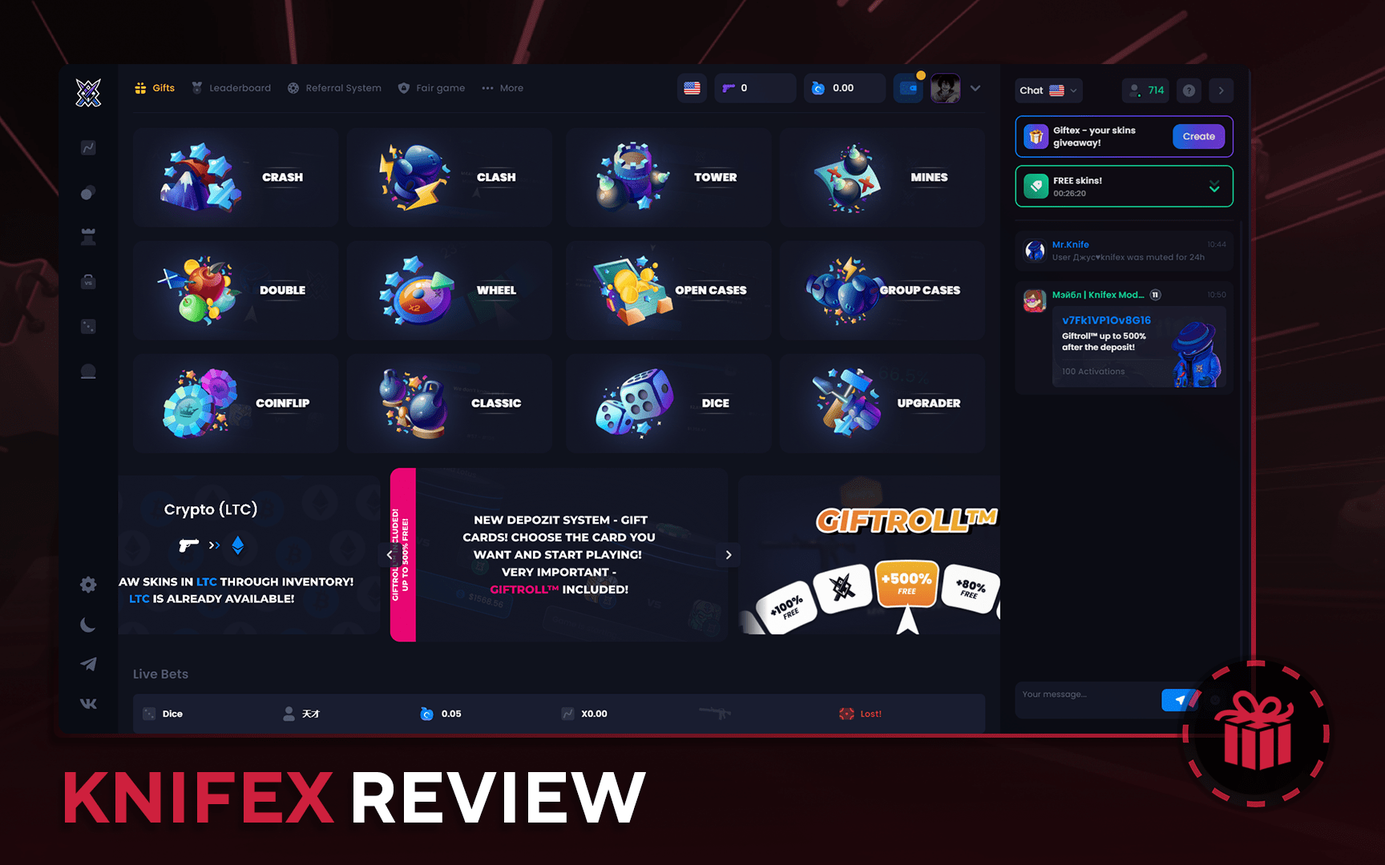
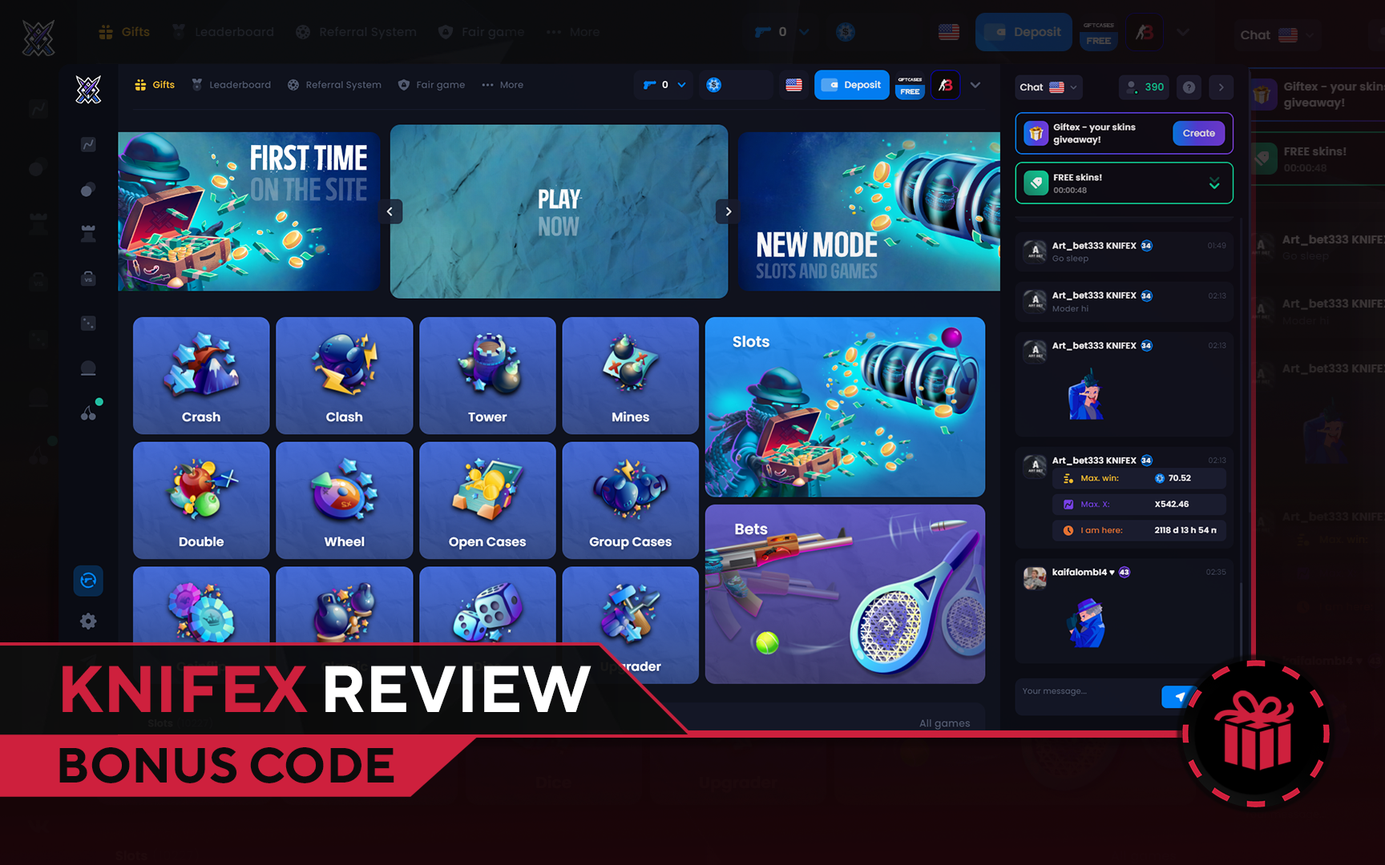
+casino +matchbetting to Knifex, upd rustmoment-ru

diff --git a/ru/reviews/rustmoment.html b/ru/reviews/rustmoment.html
@@ -159,10 +159,10 @@
             </div>
             <div class="smallreview" id="Review_1">
                 <h2>Обзор RUSTMOMENT</h2>
-                <p>В этом обзоре мы рассмотрим RustMoment, сайт азартных игр, посвященный скинам Rust. Мы изучим его особенности, репутацию, пользовательский опыт и возможные опасения относительно его законности.</p>
-                <p>RustMoment открылся в конце 2021 года, но вскоре после этого находился вне сети в течение долгого периода технического обслуживания продолжительностью более шести месяцев. В 2023 году сайт вновь появился с обновленным внешним видом и улучшенными анимациями игр. В настоящее время RustMoment предлагает шесть игр, включая уникальную "X-Roulette", которая сочетает элементы краша и рулетки, а также пять других оригинальных игр. Одной из заметных особенностей RustMoment является система вознаграждений за комиссии, предоставляющая игрокам ежедневные, еженедельные и ежемесячные бонусы. Этот стимул добавляет ценности игровому опыту и поощряет лояльность игроков. Кроме того, RustMoment принимает стандартные способы оплаты, а также криптовалюты, обеспечивая пользователям гибкость и удобство в их транзакциях.</p>
-                <p>Регулярные обновления сайта свидетельствуют о стремлении улучшить платформу и обеспечить плавный пользовательский опыт. RustMoment работает на структуре с шифрованием SSL, обеспечивающей защиту связи между пользователями и сервером, что является важным для защиты конфиденциальных данных и обеспечения конфиденциальности пользователей. Однако важно отметить, что RustMoment в прошлом испытывал длительные периоды технического обслуживания, что вызывает вопросы о его надежности и законности в целом. В настоящее время платформа выглядит репутабельной и не связана с серьезными случаями нарушения безопасности или мошенничества, однако пользователи должны быть осторожны и проводить собственное исследование перед участием в азартных играх в Интернете.</p>
-                <p>RustMoment предлагает многообещающий игровой опыт для любителей скинов Rust. Со своим разнообразием игр, регулярными бонусами и обязательством по обеспечению безопасности, сайт демонстрирует потенциал как законная платформа. Однако из-за его относительно недавнего появления и проблем с техническим обслуживанием в прошлом, пользователи должны подходить к RustMoment с осторожностью и принимать обоснованные решения при использовании сайта. Проведение тщательного исследования и осмотрительности являются неотъемлемыми при осуществлении азартных игр в Интернете.</p>
+                <p>RustMoment - это платформа для азартных игр с использованием скинов Rust, которая была запущена в конце 2022 года. Однако вскоре после открытия сайт был закрыт на длительное техническое обслуживание, продолжавшееся более шести месяцев. В 2023 году RustMoment вернулся с обновленным дизайном и расширенным функционалом.</p>
+                <p>На данный момент RustMoment предлагает шесть игровых режимов, включая уникальные «X-Games», что придает сайту индивидуальности. Одной из ключевых особенностей платформы является система рейкбека, которая позволяет игрокам получать ежедневные, еженедельные и ежемесячные бонусы.</p>
+                <p>Платформа принимает депозиты в виде скинов Rust и криптовалюты, однако вывод средств возможен только в виде скинов Rust. Это может ограничить пользователей, привыкших к большему выбору методов вывода. Регулярные обновления сайта свидетельствуют о том, что команда RustMoment стремится улучшать платформу и обеспечивать качественный пользовательский опыт.</p>
+                <p>В целом, RustMoment предлагает многообещающий игровой опыт для любителей азартных игр с использованием скинов Rust. С разнообразием игр и системой бонусов, платформа демонстрирует потенциал стать надежным и популярным выбором среди игроков. Тем не менее, из-за недавней истории сайта важно сохранять бдительность и принимать обоснованные решения при игре на RustMoment.</p>
                 <div class="title-space"></div>
             </div>
                         <div class="instruction" id="Bonus_2">
@@ -257,12 +257,12 @@
                     <span>Способы Пополнения<i class="bi bi-caret-down-fill"></i></span>
                     <div class="methodlist" id="first">
                         <a href="/ru/rust" aria-label="Rust Items" class="rust"></a>
-                        <a href="/ru/crypto" aria-label="Bitcoin" class="btc"></a>
-                        <a href="/ru/crypto" aria-label="Ethereum" class="eth"></a>
-                        <a href="/ru/crypto" aria-label="Litecoin" class="ltc"></a>
-                        <a href="/ru" aria-label="VISA" class="visa"></a>
-                        <a href="/ru" aria-label="MasterCard" class="mastercard"></a>
-                        <a href="/ru" aria-label="UnionPay" class="unionpay"></a>
+                        <a href="/crypto" aria-label="USDT" class="usdt"></a>
+                        <a href="/crypto" aria-label="Bitcoin" class="btc"></a>
+                        <a href="/crypto" aria-label="Ethereum" class="eth"></a>
+                        <a href="/crypto" aria-label="Litecoin" class="ltc"></a>
+                        <a href="/crypto" aria-label="USDC" class="usdc"></a>
+                        <a href="/crypto" aria-label="Ripple" class="ripple"></a>
                     </div>
                 </div>
                 <div class="sitepros">

diff --git a/ru/reviews/knifex.html b/ru/reviews/knifex.html
@@ -178,26 +178,30 @@
                 <div class="gamemodes">
                     <div class="featuresbox">
                         <div class="typesinside">
-                            <a href="/ru/csgo/roulette" aria-label="Roulette" class="roulette"></a>
-                            <a href="/ru/csgo/crash" aria-label="Crash" class="crash"></a>
-                            <a href="/ru/csgo/roulette" aria-label="Wheel of Fortune" class="wheel"></a>
-                            <a href="/ru/csgo/coinflip" aria-label="Coinflip" class="coinflip"></a>
-                            <a href="/ru/csgo/case-battle" aria-label="Case Battles" class="casebattles"></a>
-                            <a href="/ru/csgo/jackpot" aria-label="Jackpot" class="jackpot"></a>
+                            <a href="/csgo/matchbetting" aria-label="Esports Betting" class="cs2"></a>
+                            <a href="/csgo/casino" aria-label="Slots" class="slots"></a>
+                            <a href="/csgo/matchbetting" aria-label="Sport Betting" class="sport"></a>
+                            <a href="/csgo/roulette" aria-label="Roulette" class="roulette"></a>
+                            <a href="/csgo/crash" aria-label="Crash" class="crash"></a>
+                            <a href="/csgo/roulette" aria-label="Wheel of Fortune" class="wheel"></a>
+                            <a href="/csgo/coinflip" aria-label="Coinflip" class="coinflip"></a>
+                            <a href="/csgo/case-battle" aria-label="Case Battles" class="casebattles"></a>
+                            <a href="/csgo/jackpot" aria-label="Jackpot" class="jackpot"></a>
                             <a href="/csgo/mines" aria-label="Mines" class="mines"></a>
-                            <a href="/ru/csgo/dice" aria-label="Dice" class="dice"></a>
+                            <a href="/csgo/dice" aria-label="Dice" class="dice"></a>
                             <a href="" aria-label="Towers" class="towers"></a>
-                            <a href="/ru/csgo/caseopening" aria-label="Case Opening" class="cases"></a>
-                            <a href="/ru/csgo/upgrader" aria-label="Upgrader" class="upgrader"></a>
+                            <a href="/csgo/caseopening" aria-label="Case Opening" class="cases"></a>
+                            <a href="/csgo/upgrader" aria-label="Upgrader" class="upgrader"></a>
                         </div>
                     </div>
                 </div>
                 <div class="screens">
-                    <div class="slide bg1"><img draggable="false" loading="lazy" src="/img/screens/knifex_1.png" alt="KNIFEX ScreenShot 1"></div>
-                    <div class="slide bg2"><img draggable="false" loading="lazy" src="/img/screens/knifex_2.png" alt="KNIFEX ScreenShot 2"></div>
-                    <div class="slide bg3"><img draggable="false" loading="lazy" src="/img/screens/knifex_3.png" alt="KNIFEX ScreenShot 3"></div>
-                    <div class="slide bg4"><img draggable="false" loading="lazy" src="/img/screens/knifex_4.png" alt="KNIFEX ScreenShot 4"></div>
-                    <div class="slide bg5"><img draggable="false" loading="lazy" src="/img/screens/knifex_5.png" alt="KNIFEX ScreenShot 5"></div>
+                    <div class="slide bg1"><img draggable="false" loading="lazy" src="/img/screens/knifex_1.jpg" alt="KNIFEX Main Page ScreenShot"></div>
+                    <div class="slide bg2"><img draggable="false" loading="lazy" src="/img/screens/knifex_2.jpg" alt="KNIFEX Mines mode ScreenShot"></div>
+                    <div class="slide bg3"><img draggable="false" loading="lazy" src="/img/screens/knifex_3.jpg" alt="KNIFEX Case Opening ScreenShot"></div>
+                    <div class="slide bg4"><img draggable="false" loading="lazy" src="/img/screens/knifex_4.jpg" alt="KNIFEX Betting Selection ScreenShot"></div>
+                    <div class="slide bg5"><img draggable="false" loading="lazy" src="/img/screens/knifex_5.jpg" alt="KNIFEX Slots Selection ScreenShot"></div>
+                    <div class="slide bg5"><img draggable="false" loading="lazy" src="/img/screens/knifex_6.jpg" alt="KNIFEX Crash mode ScreenShot"></div>
                 </div>
             </div>
             <div class="sitealternates">

diff --git a/csgo/casino.html b/csgo/casino.html
@@ -308,6 +308,20 @@
                 <button class="copy" aria-label="Copy Code" onclick="copyToClipboard('#p9')"><i class="bi bi-copy"></i></button>
             </div>
         </div>
+        <div class="box" id="CSGOLuck">
+            <div class="logobg">
+                <a href="/reviews/csgoluck"><img src="/img/csgoluck-logo.webp" alt="CSGOLuck logo" draggable="false" loading="lazy"></a>
+                <div class="best">5 Free Cases</div>
+            </div>
+            <div class="content">
+                <p>CSGOLuck</p>
+                <p>CSGOLuck is a licensed CSGO skin gambling site that accepts multiple deposit methods, offering various games and a user-friendly design.</p>
+                <p>Withdraw CS2 Skins or Crypto!</p>
+                <a aria-label="Visit WebSite" class="copy_style" target="_blank" href='https://csgoluck.com/r/CSGOBROKER'>Code: CSGOBROKER</a>
+                <span id="p4">CSGOBROKER</span>
+                <button class="copy" aria-label="Copy Code" onclick="copyToClipboard('#p4')"><i class="bi bi-copy"></i></button>
+            </div>
+        </div>
         <div class="box" id="Rollbit">
             <div class="logobg">
                 <a href="/reviews/rollbit"><img src="/img/rollbit-logo.webp" loading="lazy" draggable="false" alt="Rollbit logo"></a>
@@ -335,18 +349,18 @@
                 <button class="copy" aria-label="Copy Code" onclick="copyToClipboard('#polygoncopy')"><i class="bi bi-copy"></i></button>
             </div>
         </div>
-        <div class="box" id="CSGOLuck">
+        <div class="box" id="KNIFEX">
             <div class="logobg">
-                <a href="/reviews/csgoluck"><img src="/img/csgoluck-logo.webp" alt="CSGOLuck logo" draggable="false" loading="lazy"></a>
+                <a href="/reviews/knifex"><img src="/img/knifex-logo.webp" loading="lazy" draggable="false" alt="KNIFEX logo"></a>
                 <div class="best">5 Free Cases</div>
             </div>
             <div class="content">
-                <p>CSGOLuck</p>
-                <p>CSGOLuck is a licensed CSGO skin gambling site that accepts multiple deposit methods, offering various games and a user-friendly design.</p>
-                <p>Withdraw CS2 Skins or Crypto!</p>
-                <a aria-label="Visit WebSite" class="copy_style" target="_blank" href='https://csgoluck.com/r/CSGOBROKER'>Code: CSGOBROKER</a>
-                <span id="p4">CSGOBROKER</span>
-                <button class="copy" aria-label="Copy Code" onclick="copyToClipboard('#p4')"><i class="bi bi-copy"></i></button>
+                <p>KNIFEX</p>
+                <p>KNIFEX is a CS2 gambling site that offers a range of game modes, including case opening, case battles, coinflip, crash, clash and many more!</p>
+                <p>Withdraw CS2 Skins and Items!</p>
+                <a aria-label="Visit WebSite" class="copy_style" target="_blank" href='https://knifex.bet/ref/broker'>Code: broker</a>
+                <span id="p23">broker</span>
+                <button class="copy" aria-label="Copy Code" onclick="copyToClipboard('#p23')"><i class="bi bi-copy"></i></button>
             </div>
         </div>
     </div>

diff --git a/reviews/knifex.html b/reviews/knifex.html
@@ -179,6 +179,9 @@
                 <div class="gamemodes">
                     <div class="featuresbox">
                         <div class="typesinside">
+                            <a href="/csgo/matchbetting" aria-label="Esports Betting" class="cs2"></a>
+                            <a href="/csgo/casino" aria-label="Slots" class="slots"></a>
+                            <a href="/csgo/matchbetting" aria-label="Sport Betting" class="sport"></a>
                             <a href="/csgo/roulette" aria-label="Roulette" class="roulette"></a>
                             <a href="/csgo/crash" aria-label="Crash" class="crash"></a>
                             <a href="/csgo/roulette" aria-label="Wheel of Fortune" class="wheel"></a>
@@ -194,11 +197,12 @@
                     </div>
                 </div>
                 <div class="screens">
-                    <div class="slide bg1"><img draggable="false" loading="lazy" src="/img/screens/knifex_1.png" alt="KNIFEX ScreenShot 1"></div>
-                    <div class="slide bg2"><img draggable="false" loading="lazy" src="/img/screens/knifex_2.png" alt="KNIFEX ScreenShot 2"></div>
-                    <div class="slide bg3"><img draggable="false" loading="lazy" src="/img/screens/knifex_3.png" alt="KNIFEX ScreenShot 3"></div>
-                    <div class="slide bg4"><img draggable="false" loading="lazy" src="/img/screens/knifex_4.png" alt="KNIFEX ScreenShot 4"></div>
-                    <div class="slide bg5"><img draggable="false" loading="lazy" src="/img/screens/knifex_5.png" alt="KNIFEX ScreenShot 5"></div>
+                    <div class="slide bg1"><img draggable="false" loading="lazy" src="/img/screens/knifex_1.jpg" alt="KNIFEX Main Page ScreenShot"></div>
+                    <div class="slide bg2"><img draggable="false" loading="lazy" src="/img/screens/knifex_2.jpg" alt="KNIFEX Mines mode ScreenShot"></div>
+                    <div class="slide bg3"><img draggable="false" loading="lazy" src="/img/screens/knifex_3.jpg" alt="KNIFEX Case Opening ScreenShot"></div>
+                    <div class="slide bg4"><img draggable="false" loading="lazy" src="/img/screens/knifex_4.jpg" alt="KNIFEX Betting Selection ScreenShot"></div>
+                    <div class="slide bg5"><img draggable="false" loading="lazy" src="/img/screens/knifex_5.jpg" alt="KNIFEX Slots Selection ScreenShot"></div>
+                    <div class="slide bg5"><img draggable="false" loading="lazy" src="/img/screens/knifex_6.jpg" alt="KNIFEX Crash mode ScreenShot"></div>
                 </div>
             </div>
             <div class="sitealternates">

diff --git a/tr/reviews/knifex.html b/tr/reviews/knifex.html
@@ -179,6 +179,9 @@
                 <div class="gamemodes">
                     <div class="featuresbox">
                         <div class="typesinside">
+                            <a href="/csgo/matchbetting" aria-label="Esports Betting" class="cs2"></a>
+                            <a href="/csgo/casino" aria-label="Slots" class="slots"></a>
+                            <a href="/csgo/matchbetting" aria-label="Sport Betting" class="sport"></a>
                             <a href="/csgo/roulette" aria-label="Roulette" class="roulette"></a>
                             <a href="/csgo/crash" aria-label="Crash" class="crash"></a>
                             <a href="/csgo/roulette" aria-label="Wheel of Fortune" class="wheel"></a>
@@ -194,11 +197,12 @@
                     </div>
                 </div>
                 <div class="screens">
-                    <div class="slide bg1"><img draggable="false" loading="lazy" src="/img/screens/knifex_1.png" alt="KNIFEX ScreenShot 1"></div>
-                    <div class="slide bg2"><img draggable="false" loading="lazy" src="/img/screens/knifex_2.png" alt="KNIFEX ScreenShot 2"></div>
-                    <div class="slide bg3"><img draggable="false" loading="lazy" src="/img/screens/knifex_3.png" alt="KNIFEX ScreenShot 3"></div>
-                    <div class="slide bg4"><img draggable="false" loading="lazy" src="/img/screens/knifex_4.png" alt="KNIFEX ScreenShot 4"></div>
-                    <div class="slide bg5"><img draggable="false" loading="lazy" src="/img/screens/knifex_5.png" alt="KNIFEX ScreenShot 5"></div>
+                    <div class="slide bg1"><img draggable="false" loading="lazy" src="/img/screens/knifex_1.jpg" alt="KNIFEX Main Page ScreenShot"></div>
+                    <div class="slide bg2"><img draggable="false" loading="lazy" src="/img/screens/knifex_2.jpg" alt="KNIFEX Mines mode ScreenShot"></div>
+                    <div class="slide bg3"><img draggable="false" loading="lazy" src="/img/screens/knifex_3.jpg" alt="KNIFEX Case Opening ScreenShot"></div>
+                    <div class="slide bg4"><img draggable="false" loading="lazy" src="/img/screens/knifex_4.jpg" alt="KNIFEX Betting Selection ScreenShot"></div>
+                    <div class="slide bg5"><img draggable="false" loading="lazy" src="/img/screens/knifex_5.jpg" alt="KNIFEX Slots Selection ScreenShot"></div>
+                    <div class="slide bg5"><img draggable="false" loading="lazy" src="/img/screens/knifex_6.jpg" alt="KNIFEX Crash mode ScreenShot"></div>
                 </div>
             </div>
             <div class="sitealternates">

diff --git a/ru/csgo/matchbetting.html b/ru/csgo/matchbetting.html
@@ -405,6 +405,20 @@
                 <button class="copy" aria-label="Copy Code" onclick="copyToClipboard('#p11')"><i class="bi bi-copy"></i></button>
             </div>
         </div>
+        <div class="box" id="KNIFEX">
+            <div class="logobg">
+                <a href="/reviews/knifex"><img src="/img/knifex-logo.webp" loading="lazy" draggable="false" alt="KNIFEX logo"></a>
+                <div class="best">5 Бесплатных Кейсов</div>
+            </div>
+            <div class="content">
+                <p>KNIFEX</p>
+                <p>KNIFEX - это сайт CS2 азартных игр, который предлагает различные режимы игры, включая открытие кейсов, битвы кейсов и многое другое!</p>
+                <p>Выводите скины и предметы CS2!</p>
+                <a aria-label="Visit WebSite" class="copy_style" target="_blank" href='https://knifex.bet/ref/broker'>Код: broker</a>
+                <span id="p23">broker</span>
+                <button class="copy" aria-label="Copy Code" onclick="copyToClipboard('#p23')"><i class="bi bi-copy"></i></button>
+            </div>
+        </div>
     </div>
     <footer>
         <div class="centralizer">

diff --git a/ru/csgo/casino.html b/ru/csgo/casino.html
@@ -357,6 +357,20 @@
                 <button class="copy" aria-label="Copy Code" onclick="copyToClipboard('#p6')"><i class="bi bi-copy"></i></button>
             </div>
         </div>
+        <div class="box" id="KNIFEX">
+            <div class="logobg">
+                <a href="/reviews/knifex"><img src="/img/knifex-logo.webp" loading="lazy" draggable="false" alt="KNIFEX logo"></a>
+                <div class="best">5 Бесплатных Кейсов</div>
+            </div>
+            <div class="content">
+                <p>KNIFEX</p>
+                <p>KNIFEX - это сайт CS2 азартных игр, который предлагает различные режимы игры, включая открытие кейсов, битвы кейсов и многое другое!</p>
+                <p>Выводите скины и предметы CS2!</p>
+                <a aria-label="Visit WebSite" class="copy_style" target="_blank" href='https://knifex.bet/ref/broker'>Код: broker</a>
+                <span id="p23">broker</span>
+                <button class="copy" aria-label="Copy Code" onclick="copyToClipboard('#p23')"><i class="bi bi-copy"></i></button>
+            </div>
+        </div>
     </div>
     <footer>
         <div class="centralizer">

diff --git a/csgo/matchbetting.html b/csgo/matchbetting.html
@@ -412,6 +412,20 @@
                 <a aria-label="Visit WebSite" class="copy_style" target="_blank" href='https://cs2run.vip/ref/ebdcjh'>Visit WebSite</a>
             </div>
         </div>
+        <div class="box" id="KNIFEX">
+            <div class="logobg">
+                <a href="/reviews/knifex"><img src="/img/knifex-logo.webp" loading="lazy" draggable="false" alt="KNIFEX logo"></a>
+                <div class="best">5 Free Cases</div>
+            </div>
+            <div class="content">
+                <p>KNIFEX</p>
+                <p>KNIFEX is a CS2 gambling site that offers a range of game modes, including case opening, case battles, coinflip, crash, clash and many more!</p>
+                <p>Withdraw CS2 Skins and Items!</p>
+                <a aria-label="Visit WebSite" class="copy_style" target="_blank" href='https://knifex.bet/ref/broker'>Code: broker</a>
+                <span id="p23">broker</span>
+                <button class="copy" aria-label="Copy Code" onclick="copyToClipboard('#p23')"><i class="bi bi-copy"></i></button>
+            </div>
+        </div>
     </div>
     <footer>
         <div class="centralizer">

diff --git a/reviews/rustmoment.html b/reviews/rustmoment.html
@@ -254,12 +254,12 @@
                     <span>Deposit Methods <i class="bi bi-caret-down-fill"></i></span>
                     <div class="methodlist" id="first">
                         <a href="/rust" aria-label="Rust Items" class="rust"></a>
+                        <a href="/crypto" aria-label="USDT" class="usdt"></a>
                         <a href="/crypto" aria-label="Bitcoin" class="btc"></a>
                         <a href="/crypto" aria-label="Ethereum" class="eth"></a>
                         <a href="/crypto" aria-label="Litecoin" class="ltc"></a>
-                        <a href="/" aria-label="VISA" class="visa"></a>
-                        <a href="/" aria-label="MasterCard" class="mastercard"></a>
-                        <a href="/" aria-label="UnionPay" class="unionpay"></a>
+                        <a href="/crypto" aria-label="USDC" class="usdc"></a>
+                        <a href="/crypto" aria-label="Ripple" class="ripple"></a>
                     </div>
                 </div>
                 <div class="sitepros">

diff --git a/tr/reviews/rustmoment.html b/tr/reviews/rustmoment.html
@@ -254,12 +254,12 @@
                     <span>Deposit Methods <i class="bi bi-caret-down-fill"></i></span>
                     <div class="methodlist" id="first">
                         <a href="/rust" aria-label="Rust Items" class="rust"></a>
+                        <a href="/crypto" aria-label="USDT" class="usdt"></a>
                         <a href="/crypto" aria-label="Bitcoin" class="btc"></a>
                         <a href="/crypto" aria-label="Ethereum" class="eth"></a>
                         <a href="/crypto" aria-label="Litecoin" class="ltc"></a>
-                        <a href="/" aria-label="VISA" class="visa"></a>
-                        <a href="/" aria-label="MasterCard" class="mastercard"></a>
-                        <a href="/" aria-label="UnionPay" class="unionpay"></a>
+                        <a href="/crypto" aria-label="USDC" class="usdc"></a>
+                        <a href="/crypto" aria-label="Ripple" class="ripple"></a>
                     </div>
                 </div>
                 <div class="sitepros">
